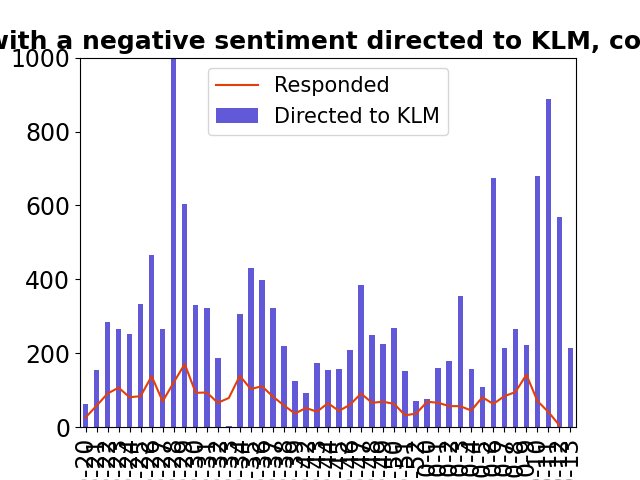
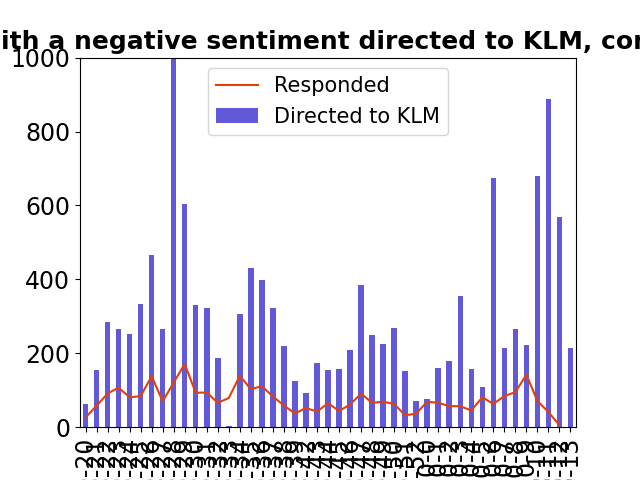
plots

Changed region(s): [[0.0, 0.0625, 1.0, 0.125]]

diff --git a/Code_for_plots/Extra_1.py b/Code_for_plots/Extra_1.py
@@ -45,7 +45,7 @@ def plot_amount_reply(df):
     ax.legend(["Responded", "Directed to KLM"], prop={'size': 15})
     ax.set_xlabel("Week of the year (year-week)", size = 15, weight = 'bold')
     ax.set_ylabel("Amount of tweets", size = 15, weight = 'bold')
-    ax.set_title("Amount of tweets with a negative sentiment directed to KLM, compared to reponded", size = 18, weight = 'bold')
+    ax.set_title("Amount of tweets with a negative sentiment directed to KLM, compared to responded", size = 18, weight = 'bold')
     plt.xticks(rotation = 90, size = 17)
     plt.yticks(size = 17)
     
